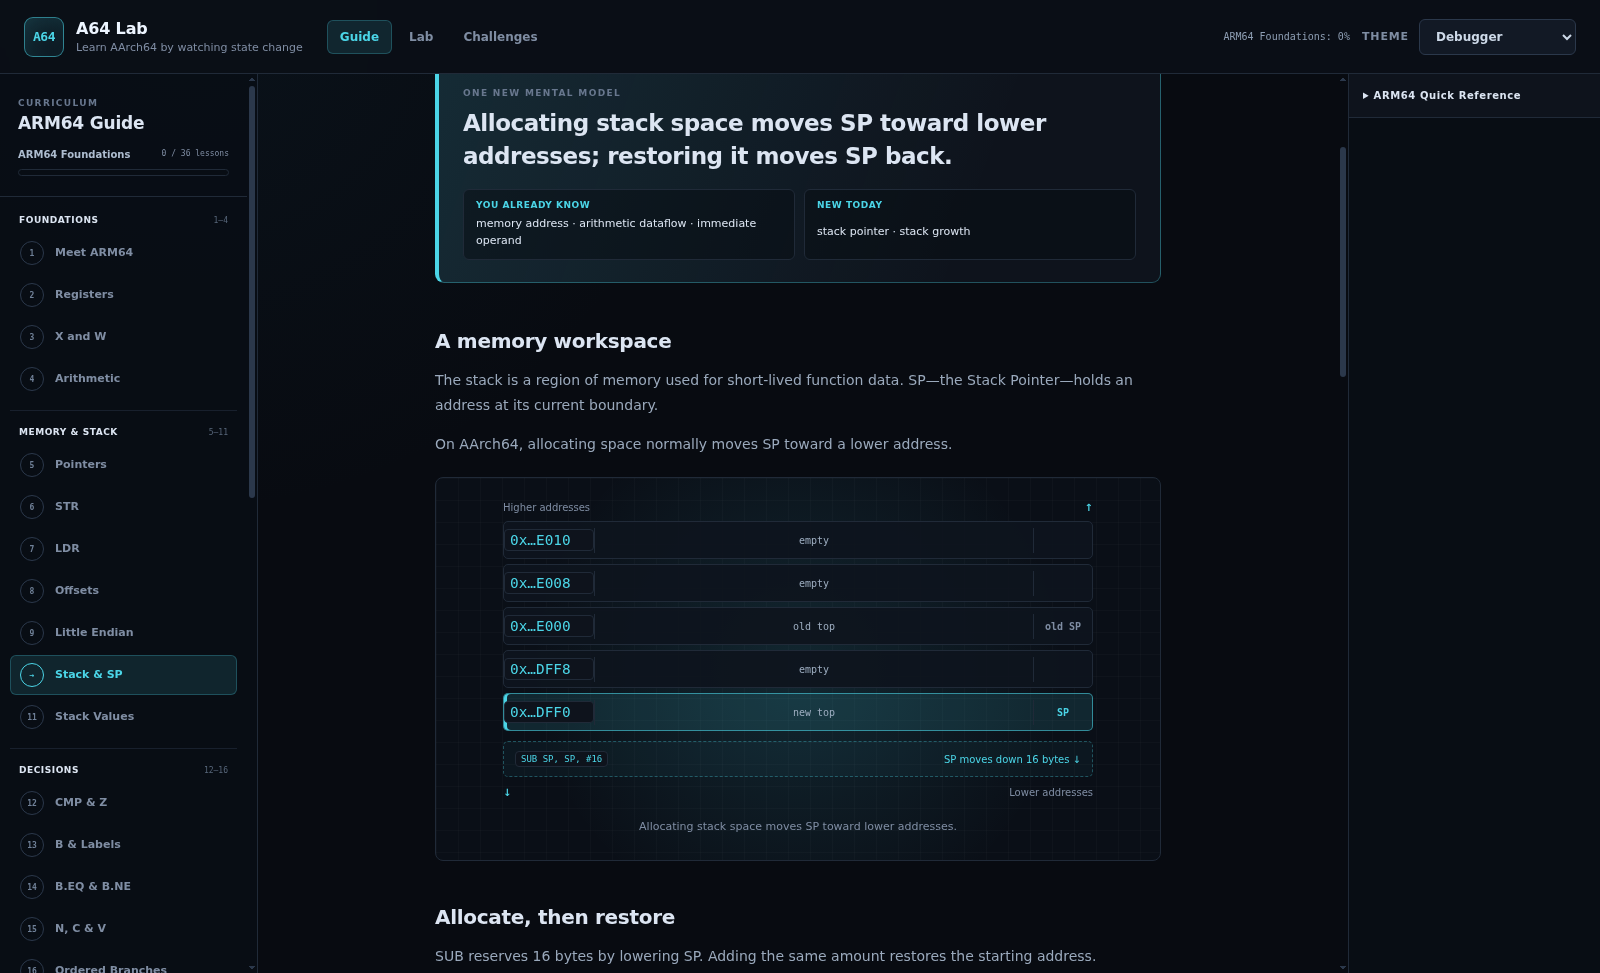
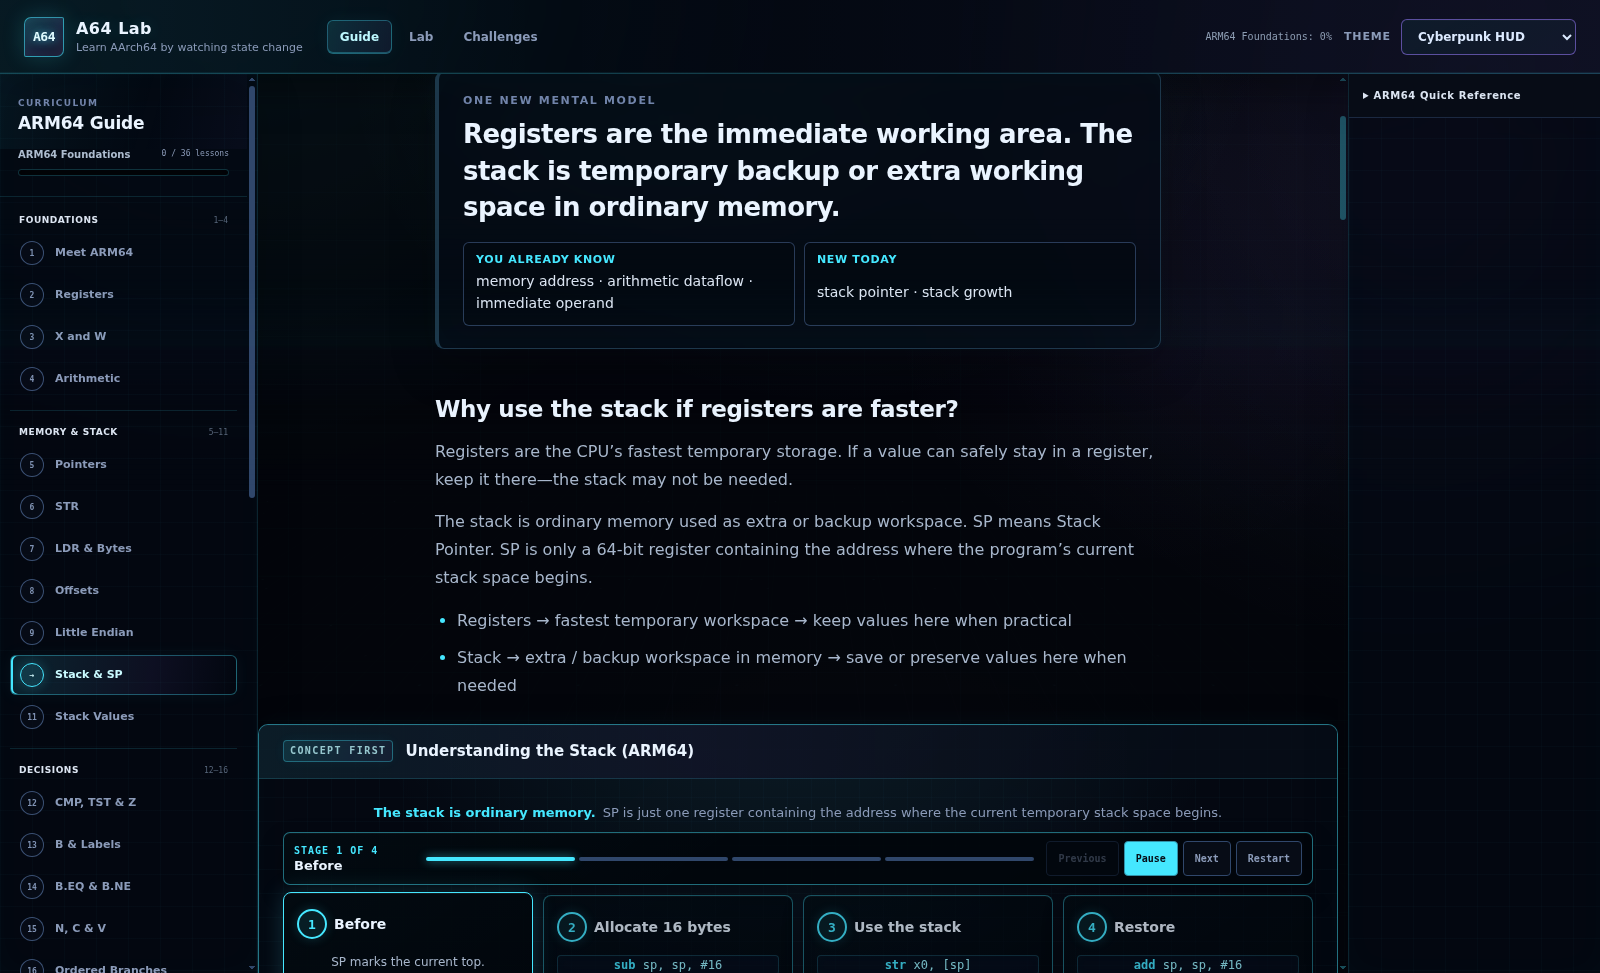
docs: refresh cyberpunk screenshots

diff --git a/README.md b/README.md
@@ -4,7 +4,9 @@ An interactive AArch64 learning platform and visual ARM64 simulator for
 reverse engineering, low-level programming, and binary-exploitation
 fundamentals.
 
-![A64 Lab stack lesson with a visual memory diagram](docs/a64-guide.png)
+![A64 Lab Cyberpunk HUD showing the animated Stack and SP lesson](docs/a64-guide.png)
+
+*Cyberpunk HUD is the default theme. Shown here: the animated Stack and SP lesson.*
 
 A64 Lab combines a structured beginner course, prediction exercises, small
 coding challenges, and a debugger-style simulator. You can learn one concept,
@@ -96,7 +98,9 @@ time with Previous and Next. Address labels, memory cells, and SP annotations
 use separate columns so the layout remains readable from a wide desktop down
 to a 320 px viewport.
 
-![A64 Lab debugger with live register, data-flow, and stack visualization](docs/a64-lab.png)
+![A64 Lab Cyberpunk HUD debugger with live register, data-flow, and stack visualization](docs/a64-lab.png)
+
+*The full Lab in Cyberpunk HUD, with live register, data-flow, memory, and stack views.*
 
 ## Themes and motion
 
